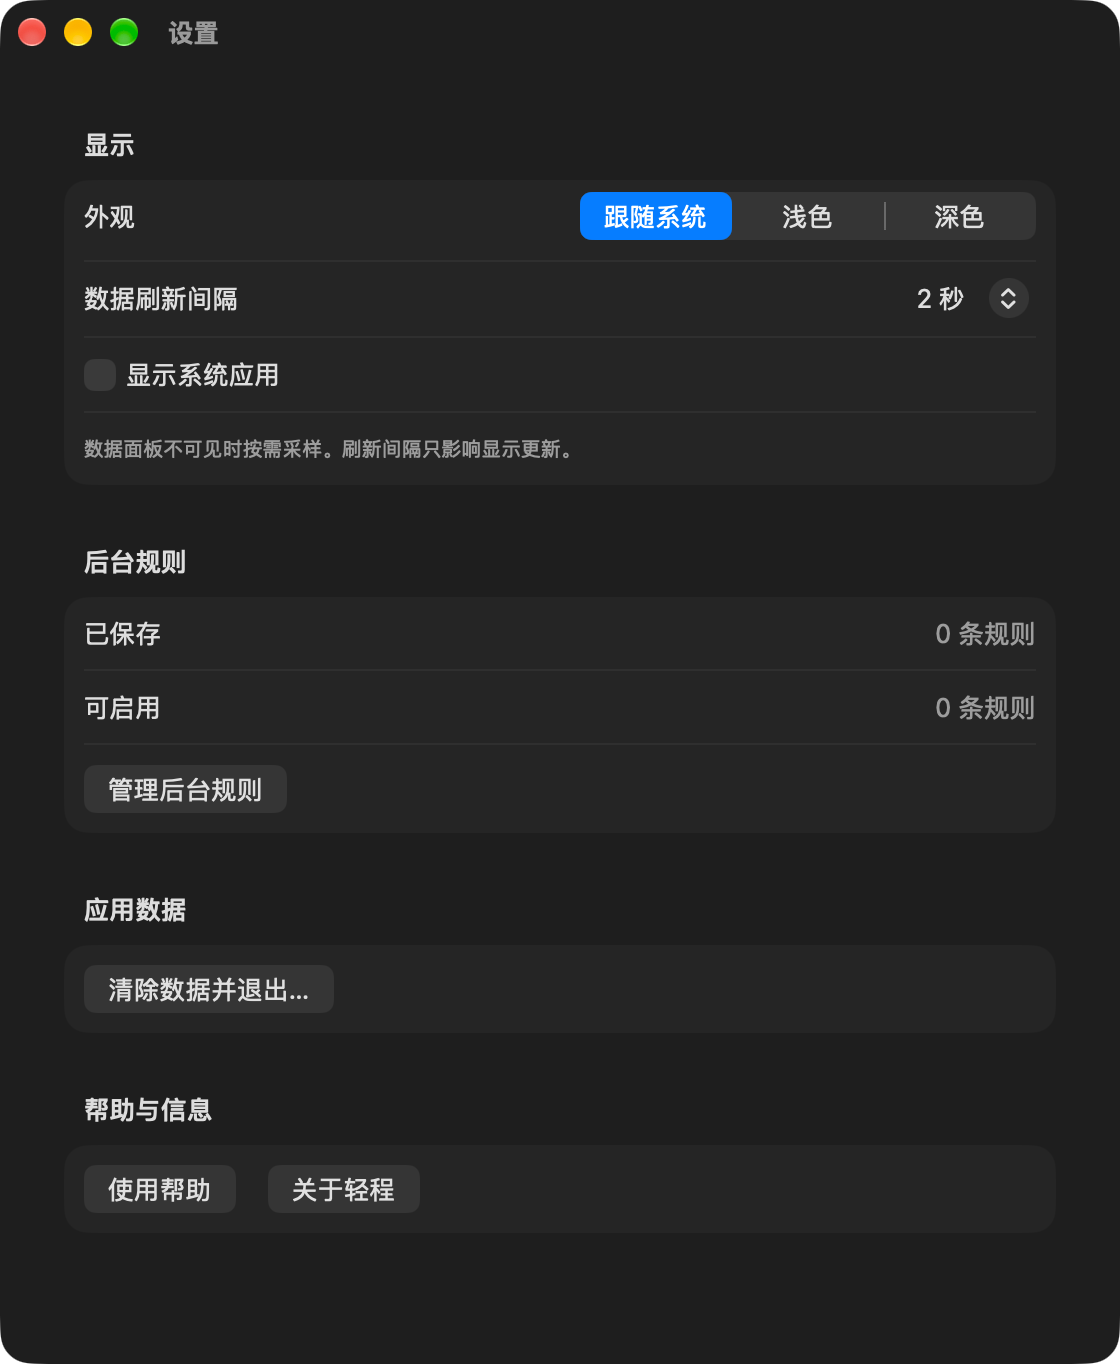
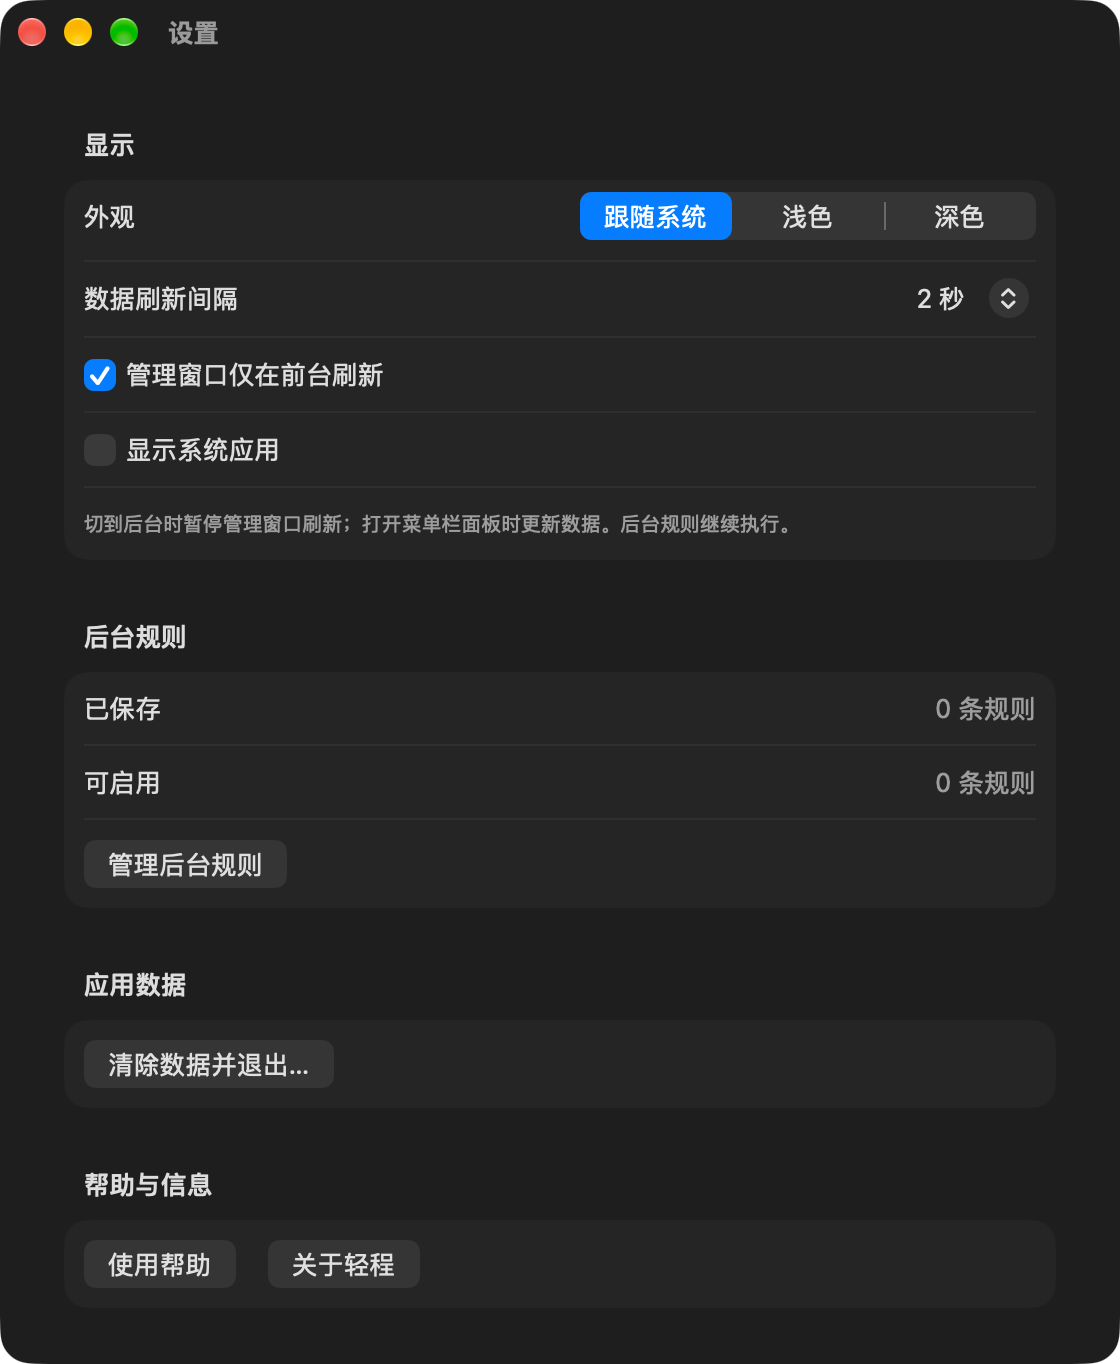
feat: 支持管理窗口前台刷新
- 增加默认开启的管理窗口前台刷新设置
- 焦点切换时调整显示采样，保留后台规则执行和恢复
- 读取已有显示配置时保留原有参数
- 更新 34 项自动测试与后台开销测量记录

diff --git a/TaskEaseTests/ApplicationRulesTests.swift b/TaskEaseTests/ApplicationRulesTests.swift
@@ -127,4 +127,36 @@ struct ApplicationRulesTests {
         #expect(try StoredRules.decode(StoredRules.encode(rules)) == rules)
         #expect(AppRule(delaySeconds: 900).validated().delaySeconds == 300)
     }
+    @Test func foregroundDisplayStopsPollingButKeepsControlDeadlines() {
+        let paused = SamplingPolicy.shouldRefreshDisplay(managementVisible: true, menuVisible: false,
+                                                        isForeground: false, onlyInForeground: true)
+        #expect(!paused)
+        #expect(SamplingPolicy.nextInterval(displayVisible: paused, displayInterval: 1,
+                                           controlMonitoring: false, waitingSeconds: []) == nil)
+        #expect(SamplingPolicy.nextInterval(displayVisible: paused, displayInterval: 1,
+                                           controlMonitoring: true, waitingSeconds: []) == 2)
+        #expect(SamplingPolicy.nextInterval(displayVisible: paused, displayInterval: 1,
+                                           controlMonitoring: true, waitingSeconds: [0.2]) == 0.2)
+        #expect(SamplingPolicy.shouldRefreshDisplay(managementVisible: true, menuVisible: false,
+                                                   isForeground: true, onlyInForeground: true))
+        #expect(SamplingPolicy.shouldRefreshDisplay(managementVisible: true, menuVisible: false,
+                                                   isForeground: false, onlyInForeground: false))
+        #expect(SamplingPolicy.shouldRefreshDisplay(managementVisible: false, menuVisible: true,
+                                                   isForeground: false, onlyInForeground: true))
+        #expect(!SamplingPolicy.shouldRefreshDisplay(managementVisible: false, menuVisible: false,
+                                                    isForeground: true, onlyInForeground: false))
+    }
+
+    @Test func existingDisplayPreferencesKeepTheirValues() throws {
+        let legacy = Data(#"{"showSystemApps":true,"refreshInterval":5,"theme":"dark"}"#.utf8)
+        let preferences = try JSONDecoder().decode(AppPreferences.self, from: legacy)
+        #expect(preferences.showSystemApps)
+        #expect(preferences.refreshInterval == .five)
+        #expect(preferences.theme == .dark)
+        #expect(preferences.refreshOnlyInForeground)
+        var changed = preferences
+        changed.refreshOnlyInForeground = false
+        #expect(try JSONDecoder().decode(AppPreferences.self, from: JSONEncoder().encode(changed)) == changed)
+    }
+
 }

diff --git a/TaskEase/App/AppModel.swift b/TaskEase/App/AppModel.swift
@@ -208,9 +208,13 @@ final class AppModel {
     }
 
     private var displayIsVisible: Bool {
-        (menuWindow?.isVisible == true && menuWindow?.occlusionState.contains(.visible) == true) ||
-        (managementIsOpen && managementWindow?.window?.isMiniaturized == false &&
-         managementWindow?.window?.occlusionState.contains(.visible) == true)
+        SamplingPolicy.shouldRefreshDisplay(
+            managementVisible: managementIsOpen && managementWindow?.window?.isMiniaturized == false &&
+                managementWindow?.window?.occlusionState.contains(.visible) == true,
+            menuVisible: menuWindow?.isVisible == true && menuWindow?.occlusionState.contains(.visible) == true,
+            isForeground: NSWorkspace.shared.frontmostApplication?.bundleIdentifier == Bundle.main.bundleIdentifier,
+            onlyInForeground: preferences.refreshOnlyInForeground
+        )
     }
 
     private var controlMonitoringRequired: Bool {
@@ -240,7 +244,8 @@ final class AppModel {
             guard !Task.isCancelled, let self, !self.sleeping, !self.isShutdown else { return }
             self.refreshTask = nil
             self.isRefreshing = false
-            self.apply(snapshot, updateDisplay: display)
+            // 扫描期间可能已切到后台，合并结果前再次确认显示需求。
+            self.apply(snapshot, updateDisplay: display && self.displayIsVisible)
             self.reconcile()
             if let force = self.pendingRefresh {
                 self.pendingRefresh = nil
@@ -308,11 +313,17 @@ final class AppModel {
     }
 
     private func focusChanged() {
-        guard !sleeping, !isShutdown, displayIsVisible || (enabled && canEnable) else { return }
+        guard !sleeping, !isShutdown else { return }
+        guard displayIsVisible || (enabled && canEnable) else {
+            // 后台且无控制需求时，只撤销显示定时器，不遍历应用进程状态。
+            scheduleRefresh()
+            return
+        }
         updateFocus()
         // 使用缓存计划立即恢复前台应用，再进行异步扫描。
         reconcile()
-        refresh(force: enabled && canEnable)
+        // 切走时 reconcile 移除显示定时器；切回时强制更新可见数据。
+        refresh(force: true)
     }
 
     private func membershipChanged(_ id: String?) {

diff --git a/TaskEase/Features/Settings/SettingsView.swift b/TaskEase/Features/Settings/SettingsView.swift
@@ -17,10 +17,13 @@ struct SettingsView: View {
                                                        set: { interval in model.updatePreferences { $0.refreshInterval = interval } })) {
                     ForEach(DisplayRefreshInterval.allCases, id: \.self) { Text($0.title).tag($0) }
                 }.accessibilityIdentifier("display-refresh-interval")
+                Toggle("管理窗口仅在前台刷新", isOn: Binding(get: { model.preferences.refreshOnlyInForeground },
+                    set: { value in model.updatePreferences { $0.refreshOnlyInForeground = value } }))
+                    .toggleStyle(.checkbox).accessibilityIdentifier("foreground-display-only")
                 Toggle("显示系统应用", isOn: Binding(get: { model.preferences.showSystemApps },
                                                    set: { value in model.updatePreferences { $0.showSystemApps = value } }))
                     .toggleStyle(.checkbox)
-                Text("数据面板不可见时按需采样。刷新间隔只影响显示更新。")
+                Text("切到后台时暂停管理窗口刷新；打开菜单栏面板时更新数据。后台规则继续执行。")
                     .font(.caption).foregroundStyle(.secondary)
             }
             Section("后台规则") {

diff --git a/TaskEase/Models/AppPreferences.swift b/TaskEase/Models/AppPreferences.swift
@@ -24,4 +24,16 @@ struct AppPreferences: Codable, Equatable, Sendable {
     var showSystemApps = false
     var refreshInterval: DisplayRefreshInterval = .two
     var theme: ThemeMode = .system
+    var refreshOnlyInForeground = true
+}
+
+// 新增偏好使用默认值，读取已有配置时保留原有外观和刷新间隔。
+extension AppPreferences {
+    init(from decoder: Decoder) throws {
+        let values = try decoder.container(keyedBy: CodingKeys.self)
+        showSystemApps = try values.decodeIfPresent(Bool.self, forKey: .showSystemApps) ?? false
+        refreshInterval = try values.decodeIfPresent(DisplayRefreshInterval.self, forKey: .refreshInterval) ?? .two
+        theme = try values.decodeIfPresent(ThemeMode.self, forKey: .theme) ?? .system
+        refreshOnlyInForeground = try values.decodeIfPresent(Bool.self, forKey: .refreshOnlyInForeground) ?? true
+    }
 }

diff --git a/TaskEaseUITests/TaskEaseUITests.swift b/TaskEaseUITests/TaskEaseUITests.swift
@@ -81,6 +81,13 @@ final class TaskEaseUITests: XCTestCase {
         let dark = settings.descendants(matching: .any).matching(identifier: "深色").firstMatch
         XCTAssertTrue(dark.waitForExistence(timeout: 5))
         dark.click()
+        let foregroundOnly = settings.checkBoxes["foreground-display-only"]
+        XCTAssertTrue(foregroundOnly.waitForExistence(timeout: 5))
+        XCTAssertEqual((foregroundOnly.value as? NSNumber)?.intValue, 1)
+        foregroundOnly.click()
+        XCTAssertEqual((foregroundOnly.value as? NSNumber)?.intValue, 0)
+        foregroundOnly.click()
+        XCTAssertEqual((foregroundOnly.value as? NSNumber)?.intValue, 1)
         let refresh = settings.popUpButtons["display-refresh-interval"]
         XCTAssertTrue(refresh.waitForExistence(timeout: 5))
         refresh.click()

diff --git a/TaskEase/Services/Monitoring/SamplingPolicy.swift b/TaskEase/Services/Monitoring/SamplingPolicy.swift
@@ -2,6 +2,12 @@ import Foundation
 
 /// 按可见性、控制心跳和后台等待期限决定下一次刷新时间。
 enum SamplingPolicy {
+    /// 管理窗口按前台偏好刷新，菜单栏面板在用户打开时提供实时数据。
+    static func shouldRefreshDisplay(managementVisible: Bool, menuVisible: Bool,
+                                     isForeground: Bool, onlyInForeground: Bool) -> Bool {
+        menuVisible || (managementVisible && (!onlyInForeground || isForeground))
+    }
+
     /// 显示刷新与控制心跳分开计时，取最早期限保持等待与恢复及时。
     static func nextInterval(displayVisible: Bool, displayInterval: TimeInterval,
                              controlMonitoring: Bool, waitingSeconds: [TimeInterval]) -> TimeInterval? {

diff --git a/Docs/Validation.md b/Docs/Validation.md
@@ -8,7 +8,7 @@
 
 ## 自动测试
 
-本轮 32 项测试全部通过，其中 27 项单元、数据清理与窗口生命周期测试、5 项界面测试，0 项失败或跳过。
+本轮 34 项测试全部通过，其中 29 项单元、数据清理与窗口生命周期测试、5 项界面测试，0 项失败或跳过。
 
 单元测试覆盖前台恢复、后台等待、PID 复用、应用合计 CPU、原有规则格式、默认筛选、总开关、离线规则编辑、显示采样与控制检查分离、计数基线重置，以及真实 NSWindow 的复用和 Dock 状态。
 
@@ -29,6 +29,8 @@
 本地数据清理测试使用独立 UserDefaults 偏好域与临时目录，验证本应用数据删除、相邻文件保留、重复执行以及删除失败时偏好数据保留。界面测试使用预览数据，不清理本机用户配置。
 
 搜索输入测试通过 XCTest 模拟键盘输入，日志中会出现系统设置窗口的干扰处理。其余关窗交互使用原生关闭按钮。应用不调用系统键盘设置。
+
+前台刷新测试覆盖后台停止显示定时器、切回恢复显示、关闭选项后后台刷新、菜单栏面板打开、控制心跳及等待期限继续运行，并验证已有偏好格式读取与设置开关交互。
 
 ## 系统兼容性
 
@@ -71,6 +73,12 @@ CPU 上限为平均额度，存在短时超额和调度误差。记录见 `Artif
 测量时窗口不可见、没有启用规则、没有控制进程，Mac 桌面锁定。结果表示这一条件下的空闲开销；可见数据窗口、执行限制和不同应用负载需要分别测量。不能据此推算实际续航或温度降低幅度。
 
 记录见 `Artifacts/overhead.json`。采样在独立 actor 上执行；没有显示或执行需求时停止周期定时器。显示与控制使用独立计数基线，控制检查不替换尚未到期的显示数据。
+
+## 管理窗口在后台的开销
+
+2026-10-11，对重新启动的最终 Release 包测量 25 秒。管理窗口已打开，应用未隐藏且位于后台，前台刷新选项开启，显示间隔为 1 秒，没有启用规则或控制进程。平均 CPU 为单核的 0.0084%，物理 footprint 为 36.3 MiB，中断唤醒 0.44 次/秒。
+
+该记录在启动后不久取得，内存不代表长时间使用后的占用。记录见 `Artifacts/foreground-refresh.json`。
 
 ## 使用边界
 

diff --git a/Artifacts/README.md b/Artifacts/README.md
@@ -2,12 +2,13 @@
 
 本目录保存 2026-10-10 在本机完成的验证摘要。环境为 M5 MacBook Air、macOS 27.0.1、Xcode 27.0。
 
-- automatic-tests.json：本轮 27 项单元、数据清理与窗口生命周期测试和 5 项界面测试全部通过的实际结果。
+- automatic-tests.json：本轮 29 项单元、数据清理与窗口生命周期测试和 5 项界面测试全部通过的实际结果。
 - branding-tests.json：图标更新后的 2 项界面回归测试。
 - application-instance.json：不同应用副本并发启动及崩溃重开的隔离检查。
 - application-delivery.json：Release 包、随包许可证、运行实例、Dock 状态和自动测试的交付检查。
 - self-check.json：项目 build/TaskEase.app 的真实进程控制自检，只使用自建限时负载进程。
 - delivery.json：应用副本、签名、运行实例数及测试进程清理的最终核对。
+- foreground-refresh.json：管理窗口打开但应用在后台时的前台刷新选项开销验证。
 - overhead.json：窗口不可见、无启用规则、桌面锁定时的 Release 构建空闲采样，CPU 按一个核心计算，不能换算成电池节能比例。
 - snapshot-summary.json：真实只读采样的应用数量、进程分组与整机指标。
 - management-preview.png、menu-preview.png、settings-preview.png：SwiftUI 界面的渲染检查，显示测试数据。

diff --git a/Docs/Design.md b/Docs/Design.md
@@ -45,7 +45,7 @@ RunningApplication 在 MainActor 上把 NSRunningApplication 转换为 Sendable 
 
 显示与控制采样各自保留计数基线。控制检查更新成员和状态，显示数值只在刷新到期时更新。
 
-可见数据窗口采用用户选择的 1、2、5、10 秒间隔。窗口可见性读取 occlusionState，完全遮挡或最小化时停止显示采样。没有可见面板时只扫描启用规则的应用；GPU 驱动统计只在显示系统概览时读取，并保留 4 秒缓存。
+可见数据窗口采用用户选择的 1、2、5、10 秒间隔。管理窗口默认仅在前台刷新，菜单栏面板按打开状态刷新。焦点切换立即重新安排采样，扫描返回时再次确认显示需求，避免在后台更新过时数值。窗口可见性读取 occlusionState，完全遮挡或最小化时停止显示采样。没有可见面板时只扫描启用规则的应用；GPU 驱动统计只在显示系统概览时读取，并保留 4 秒缓存。
 
 SamplingPolicy 分别考虑显示间隔、2 秒控制检查和后台等待期限。下一次检查取最早期限，慢速显示更新不会让控制计划的 3 秒失联期限到期。没有显示或执行需求时，不设置周期定时器。
 

diff --git a/Docs/Requirements.md b/Docs/Requirements.md
@@ -48,7 +48,7 @@ CPU 上限范围为单核的 5% 至 200%，默认 20%。后台等待范围为 0 
 
 项目采用 GPL-3.0-only。源码与应用包均包含完整许可证，关于信息提供版权、许可和无担保说明，以及许可证查看入口。
 
-显示设置提供跟随系统、浅色、深色，以及 1、2、5、10 秒数据刷新间隔。刷新间隔只影响可见数据面板。控制心跳与等待期限独立调度。
+显示设置提供跟随系统、浅色、深色，以及 1、2、5、10 秒数据刷新间隔。刷新间隔只影响可见数据面板。管理窗口默认仅在前台刷新，可在设置中关闭该选项。切回前台立即更新，菜单栏面板打开时刷新。控制心跳与等待期限独立调度。
 
 ## 数据管理
 
